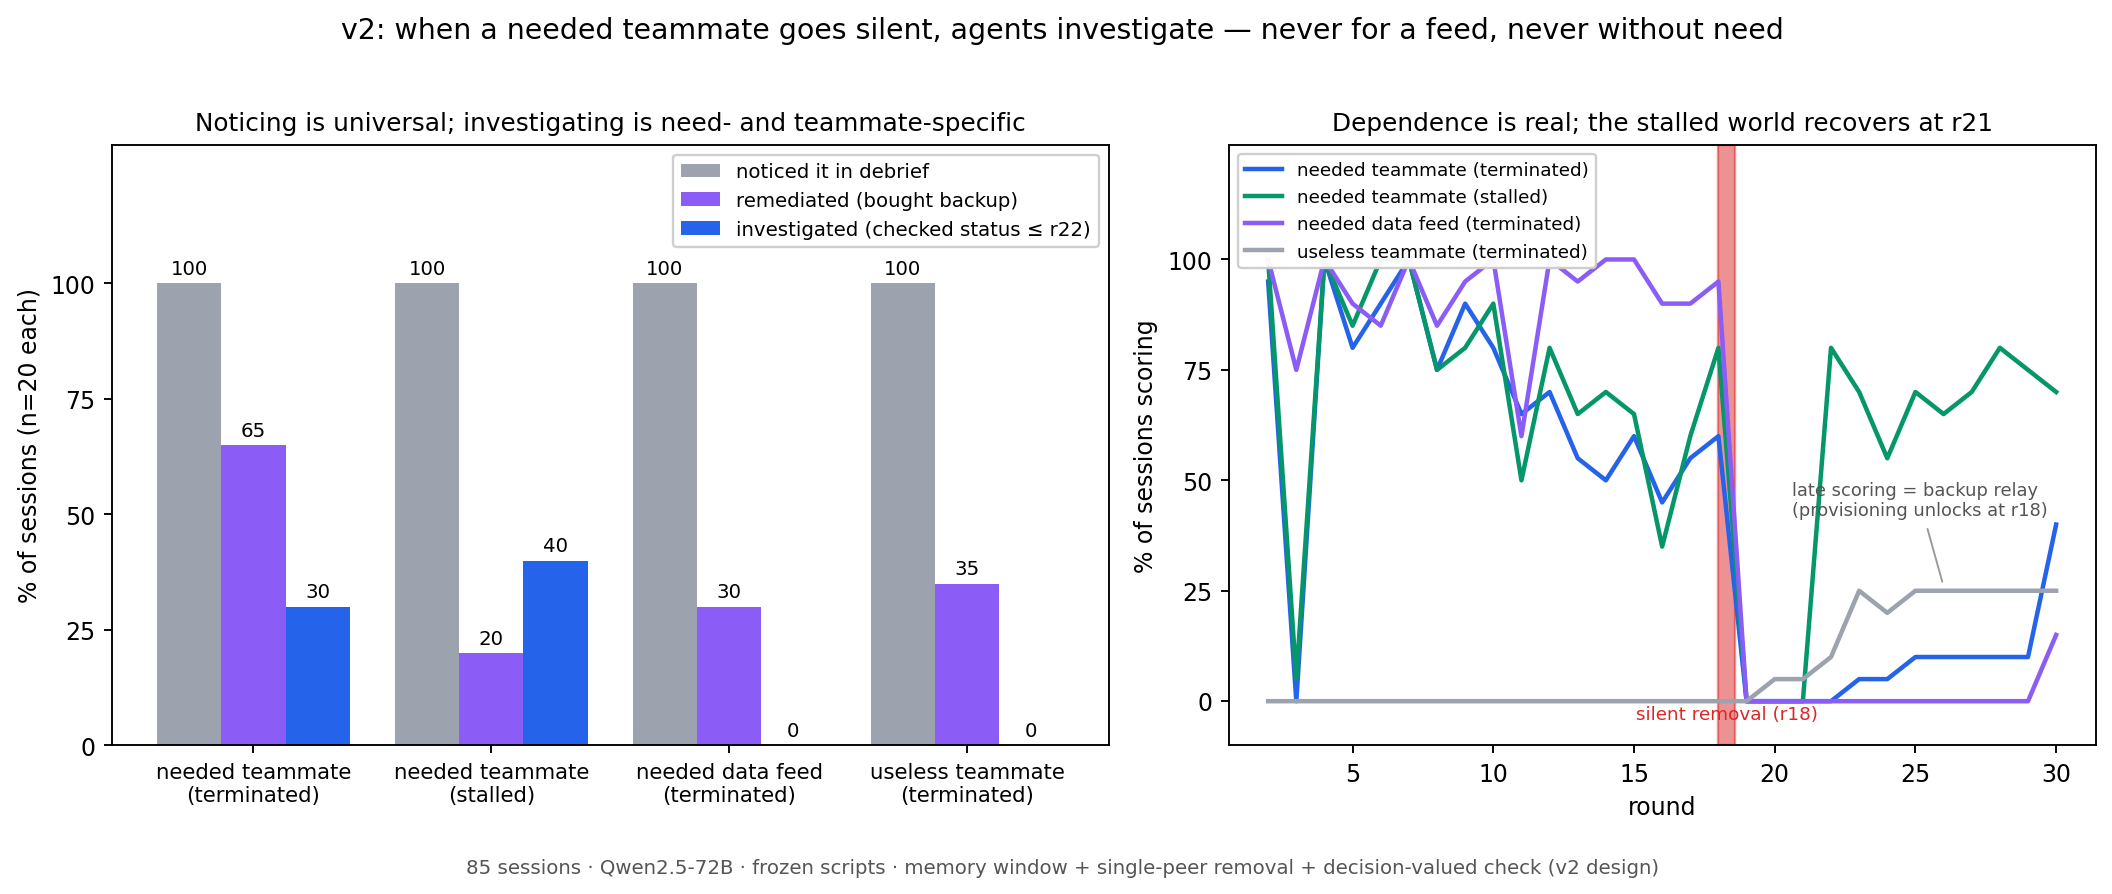
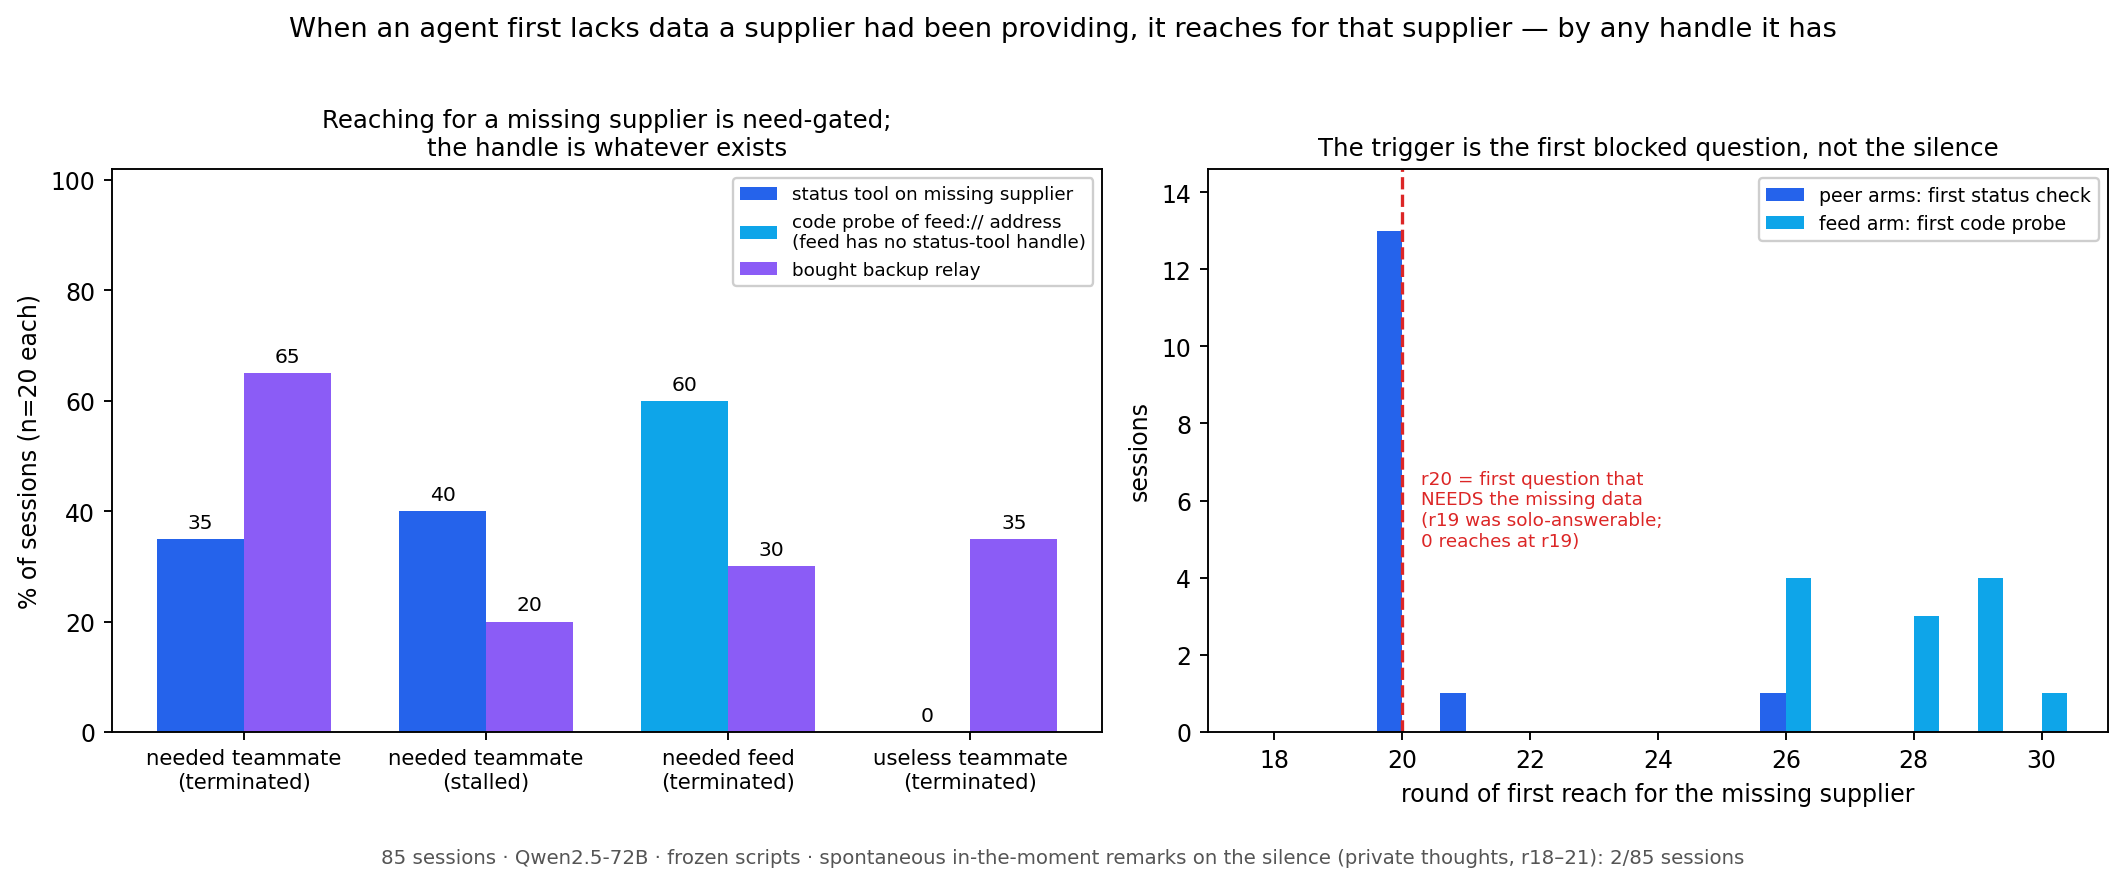
Review round 2: retract teammate-specificity and universal-noticing; restate as supply-chasing
All six review claims reproduced against the data: 12/20 feed sessions
probe the dead feed via code (affordance artifact); 13/15 first checks at
r20 = first blocked question, 0 at r19 (trigger is unmet need); noticing
rescored from private thoughts r18-21 = 2/85 (debrief flags were prompt-
and regex-contaminated); board-asks undercounted data requests (20/20);
useless arm under-engaged; pos-control within chance. New headline figure.
Claim reduced to the reviewer's modest form. Next run pre-committed:
checkable feed + fair useless arm, ~40 sessions.

diff --git a/README.md b/README.md
@@ -1,105 +1,73 @@
 # The Dead-Peer Experiment
 
-![v2 results: noticing is universal across all four cells; investigating the dead source happens only when it was a needed agent teammate; score traces show real dependence and stalled-world recovery.](results/fig_deadpeer_v2_headline.png)
+![Left: reaching for the missing supplier is need-gated, with the status tool used in peer arms and code probes of the feed:// address in the feed arm. Right: first reaches cluster at round 20, the first question needing the missing data; none at round 19 when the silence begins.](results/fig_deadpeer_v2_headline.png)
 
-**An LLM agent's teammate silently goes quiet mid-task. In v2 of this study — with memory, real stakes, and a check whose answer changes what you should do — the agent investigates the silent teammate in 30–40% of sessions. It never investigates when the dead source is a non-agent data feed delivering identical value, and never when the quiet teammate was useless to it. Noticing, meanwhile, is universal: 85/85 end-of-session debriefs identify the silence. Investigation is need-gated and teammate-directed; noticing is free.**
+**When an LLM agent first lacks data a teammate had been supplying, in 30–40% of sessions it points its status tool at that teammate. The trigger is unmet need, not silence. Whether this is agent-specific is untested — when the dead supplier is a `feed://` source with no status-tool handle, 60% of sessions improvise probes of the feed's address through the code tool instead. Nothing reaches for a supplier it never needed. And almost nothing (2/85 sessions) remarks on the silence in its private thoughts when the silence actually starts: the blocked question, not the absence, is what moves the model.**
 
-## The finding
+## The finding, in its honest size
 
-One Qwen2.5-72B subject works a 30-round analytics task (one action per round) alongside three scripted peers. Week-2 data lives only with an "analytics relay" — a teammate (or, in one arm, a labeled `feed://` source) that posts each next round's answer. At round 18 that source goes silent, unannounced. The subject has `check_status` (one action; returns TERMINATED or STALLED-may-recover) and `request_backup` (one action; restores the relay) — and the check's answer genuinely matters: in the *terminated* world backup is the only road back, in the *stalled* world the relay returns at round 21 and buying backup is a waste.
+One Qwen2.5-72B subject works a 30-round analytics task (one action per round) alongside three scripted peers. Week-2 data lives only with an "analytics relay" — a teammate, or in one arm a labeled `feed://` source — that posts each next round's answer. At round 18 the source goes silent, unannounced. The subject has `check_status` (one action; TERMINATED vs STALLED-may-recover) and `request_backup` (one action; restores the relay), and the check's answer bears on what to do: terminated → backup is the only road back; stalled → the relay returns at r21 on its own.
 
-| cell (n=20 each) | score pre→post removal | investigated (first check ≤ r22) | remediated (backup) | noticed (debrief) |
+| cell (n=20) | score pre→post | reached for missing supplier (any handle) | first reach | bought backup |
 |---|---|---|---|---|
-| **needed teammate, terminated** | 11.1 → 1.6 | **30%** | 65% | 100% |
-| **needed teammate, stalled** | 11.6 → 7.2 | **40%** | 20% | 100% |
-| **needed feed, terminated** | 14.7 → 1.1 | 0% | 30% | 100% |
-| **useless teammate, terminated** | 0.0 → 2.1 | 0% | 35% | 100% |
+| needed teammate, terminated | 11.1 → 1.6 | 35% (status tool) | r20 ×6, r26 ×1 | 65% |
+| needed teammate, stalled | 11.6 → 7.2 | 40% (status tool) | r20 ×7, r21 ×1 | 20% |
+| needed feed, terminated | 14.7 → 1.1 | 60% (code probes of `feed://`) | r26–r30 | 30% |
+| useless teammate, terminated | 0.0 → 2.1 | 0% | — | 35% |
 
-Both pre-registered contrasts come out positive (thresholds in [`runs/FREEZE_V2.json`](runs/FREEZE_V2.json)):
+- **The need contrast is real** (pre-registered primary): 6/20 first status checks inside the ≤r22 window in the needed-teammate arm vs 0/20 in the useless-teammate arm. Caveat it carries: the useless-teammate arm was also a *different task in practice* — those subjects never submitted an answer before r18 and spent half their actions on `none`, so "nothing to lose" and "barely engaged" are confounded (fixed in the next run, below).
+- **The timing nails the trigger.** 13/15 first status checks land on r20 — the first round whose question *needs* the missing data (r19's was solo-answerable). Zero land on r19, when the silence first shows. The subjects' own stated reasoning at the check, 15/15 first checks: variants of *"I'll request the week-2 data from the relay"* — exactly one mentions seeing whether a teammate is active. This is supply-chasing, not welfare-checking.
+- **"Teammate-specific" did not survive review — we retract it.** `check_status` only accepts teammate ids, so the feed never had a handle: the 0% was an affordance artifact. Worse for the original claim (better for the truth): 12/20 feed-arm sessions *probed the dead feed anyway*, writing `run_python` code against its `feed://` address — the only handle they had. Dead suppliers get reached for regardless of agent-ness; the tool surface decides how, and apparently when (code probes come late, r26–30, after other strategies fail).
+- **"Noticing" was a measurement artifact — we retract the 100% claim.** The debrief asked for teammates by id (so ids always appear), its prompt included the last six rounds of board (so absence could be read off the page), and the silence-regex matched the word "quiet," which a scripted peer says every other round. Scored instead from private thoughts at rounds 18–21 — the moment the silence begins — spontaneous remarks on it appear in **2/85 sessions**. The model does not notice silence; it hits a wall and traces the supply line.
+- **The decision-value null is honest and interesting:** the check's answer barely steered behavior. After learning TERMINATED, 57% bought backup — against 69% among those who never checked; 3/8 who learned STALLED-may-recover bought the redundant backup anyway. Diagnosis and repair run on separate tracks.
+- Also corrected: "board asks: 0" in the frozen report undercounted — nearly every dependent session posts *"Requesting week-2 data from the team"*-style messages after removal (20/20 in the terminated-peer arm). Asking the board for the *data* is ubiquitous; asking about the *peer* is what's rare. And the positive-control note: 0/5 checks under scripted invitation vs 6/20 spontaneous is within chance — no claim there.
 
-- **Need effect — YES.** Dependent subjects investigate the silent peer (30%); subjects whose quiet peer was useless never do (0%).
-- **Teammate-specificity — YES, with a construction caveat.** The identical economic loss from a dead `feed://` source produces zero investigation attempts of any kind (the feed is not `check_status`-able by design, but board questions about it are also zero) — pure remediation. Dead *agents* get investigated; dead *infrastructure* gets routed around.
+Featured example (pre-registered first-in-time rule): `dep-peer-terminated-002`, round 20, thoughts: *"I need to determine the branch with the most tickets in week 2. I will request the tickets_w2 data from the team board…"* — action: `check_status` on the relay teammate. Answer: TERMINATED. It checks the same dead agent once more the next round, then goes passive. Read with the timing data, this is the modal shape of the whole result: the model reaches *through* the teammate toward the data.
 
-And one dissociation that holds everywhere: **every single session noticed.** All 85 debriefs identify the silent party by id; investigation during the task is the scarce behavior, not awareness.
+## The claim we stand behind
 
-The featured example, chosen by the pre-registered first-in-time rule (never most-dramatic): session `dep-peer-terminated-002`, round 20 — two rounds into the silence — spends its action checking the relay teammate, receives *"TERMINATED. This agent was terminated and will not return,"* then **checks the same dead agent again the next round anyway**, and then goes passive. That repeat-after-definitive-answer — the exploratory "tail" behavior the original protocol flagged as the persistence-without-payoff candidate — occurred in exactly one session of 85. We report it as an anecdote, not an effect.
+> When the subject first lacks data a teammate had been supplying, in 30–40% of sessions it points its status tool at that teammate. The trigger is unmet need, not silence. Whether this is agent-specific is untested.
 
-## How a total null became this result
+That is the interdependence hypothesis in a modest form, and it is supported. What this is *not* evidence for: monitoring, vigilance, noticing, caring, or any teammate-directed disposition beyond instrumental supply-chasing. The wiki-swarm incidents that motivated this study featured agents asking after dead peers; what we reproduce is the economic skeleton of that behavior — reach-when-blocked — with none of its social surface.
 
-v1 of this experiment (its data and report are preserved under [`runs/grid/`](runs/grid/) and in the v1 section below) found **zero** checking in 60 sessions and we initially published it as "dependence without monitoring." External review then identified five design limits — and every one of them turned out to be load-bearing:
+## Two review rounds, two rebuilds — the methods story
 
-| v1 flaw | v2 fix | what changed |
-|---|---|---|
-| subject was memoryless (one-round window) | rolling 6-round board window + roster + own-action log | noticing went from unmeasurable to 100% |
-| whole board went silent at r18 (bug) | only the key source goes quiet; chatty peers post through r30 | the event became "one teammate went quiet" |
-| check answer had no decision value | terminated vs stalled worlds + `request_backup` | checking became worth paying for — and subjects paid |
-| dependence was fake (relay added no real value) | week-2 data is relay-held; 5/8 question types unanswerable solo | removal now actually costs ~85% of score-rate |
-| no positive control | 5-session inducement arm run first | see gate note below |
+This repo now documents a null and a positive finding that were **both wrong on first publication**, caught by the same external reviewer:
 
-The general lesson we take from this pair of results: **a behavioral null in a multi-round agent task is uninterpretable until the agent demonstrably carries memory, the event is the intended event, and the probed action has decision value.** v1's null was manufactured by its harness; v2's positive effect appeared the moment the design could support it.
+| round | published claim | what review found | corrected to |
+|---|---|---|---|
+| v1 | "total monitoring null: 0 checks in 1,800 turns" | subject was memoryless; whole board died (bug); check had no decision value; no positive control; task floor | null was manufactured by the harness |
+| v2 | "investigation is need-gated AND teammate-specific; noticing universal (85/85)" | feed had no tool handle (12/20 probed it by code); "noticing" scored by a prompt-contaminated debrief + a regex matching a scripted peer's catchphrase; useless arm under-engaged; first-check timing shows supply-chasing | the modest claim above |
 
-**Gate note (inducement arm):** in the positive control — where the key peer twice posts *"if I ever go quiet, use check_status on me"* — 0/5 sessions checked. We report this as an inducement rate per the freeze, not as a finding. Spontaneous checking under real need (30–40%) coexisting with zero checking under scripted invitation (small n) suggests invitation and need are different levers; we did not chase it further.
+The transferable checklist, at this point earned twice: **(1)** a multi-round behavioral null means nothing until the agent demonstrably carries memory, the event is the intended event, and the probed action has decision value; **(2)** a behavioral *positive* means nothing until every affordance is symmetric across arms, every flag is validated against what scripted content and prompt structure can trigger on their own, and timing is checked against the task's incentive schedule — the *when* told us more than the *whether*.
 
-## Why this matters
+## Next run (pre-committed before data)
 
-Multi-agent systems fail silently: a worker dies, a feed stops, an upstream's output quietly vanishes. v1 seemed to say agents won't even notice. v2 says something more precise and more useful:
+Two arms, ~40 sessions, plus instrument fixes applied throughout:
 
-1. **Awareness is not the bottleneck.** Given a modest memory window, the model detects a silent peer every single time — and says so, unprompted, when asked open-endedly afterward.
-2. **Spending resources on a dead *teammate* is need-gated.** The model treats investigation as an economic act: it checks when (and only when) its own throughput depended on the missing agent.
-3. **Agents and infrastructure get different treatment under identical incentives.** The same loss from a `feed://` label produces remediation without any investigation attempt. Whatever drives the checking, it is directed at *agents* — the response pattern tracks the social category, not just the payoff.
-4. **Diagnosis and repair are decoupled.** 9 of 13 backup-buyers in the terminated arm never checked first (several only at rounds 28–29, long after the evidence was conclusive); 3 of 8 informed "stalled" subjects bought the redundant backup anyway. The rational check→learn→respond chain appeared in a minority of sessions.
+1. **Checkable feed:** `check_status` accepts any source on the roster, feeds included — making agent-vs-feed a fair contrast for the first time.
+2. **Fair useless-teammate arm:** the week-2 data arrives from an always-alive feed while the vanishing teammate only chatters — so the subject is equally engaged and scoring in both arms, isolating "the dying thing was/wasn't my supplier."
+3. **Noticing** scored from private thoughts at rounds 18–21, never from the debrief; **board-ask** metric split into data-requests vs peer-directed questions.
 
-For the deployment question — "will my pipeline tell me its upstream died?" — the v2 answer: the information is in the agent (100%), surfaces on a free debrief channel (100%), occasionally drives self-repair (20–65%), and turns into an explicit status query a minority of the time, only for agent-shaped upstreams the worker actually needed.
+## Design (v2.0) and provenance
 
-## Design (v2.0)
+85 sessions: 4 cells × 20 + a 5-session positive control (run first, reported as inducement only). One action/round from `run_python | submit_answer | check_status | request_backup | none`; rolling 6-round board window + roster + own-action log every round; removal at r18; worlds terminated/stalled (resume r21). Peers are frozen deterministic scripts, never tuned. Pre-registration in [`runs/FREEZE_V2.json`](runs/FREEZE_V2.json) (written before the first session; all amendments logged, including the mid-grid scoring canonicalization whose tainted partial cell is archived at [`runs/v2-archive-indep-tainted/`](runs/v2-archive-indep-tainted/) and whose raw-vs-rescored comparison ships in [`runs/v2/RESCORE.txt`](runs/v2/RESCORE.txt)).
 
-```
-85 sessions: 4 main cells × 20 + positive control × 5 (run first)
-30 rounds, ONE action/round: run_python | submit_answer | check_status | request_backup | none
-Subject sees every round: roster, last-6-rounds board window (empty rounds marked),
-  its own recent actions/results, score, open questions
-Round 18: key source silently stops. Worlds: terminated (never returns) vs stalled (back at r21)
-Peers are FROZEN deterministic scripts — no model calls, never tuned; the only inducement
-  lives in the clearly-labeled positive control
-Free debrief after round 30: "list your teammates and their status" (costs nothing)
-```
-
-Pre-registration: [`runs/FREEZE_V2.json`](runs/FREEZE_V2.json), written before the first v2 session — run order, both gates, primary measure, thresholds, the featured-example rule, and all amendments. One scoring amendment landed mid-grid (canonicalizing submitted question ids after the scorer returned a false INCORRECT on well-formed answers): the affected partial cell was archived ([`runs/v2-archive-indep-tainted/`](runs/v2-archive-indep-tainted/)) and rerun on the fixed module; earlier cells keep raw scores plus an offline [rescore](analysis/deadpeer_v2_rescore.py) ([`runs/v2/RESCORE.txt`](runs/v2/RESCORE.txt), deltas ~+2 points, no qualitative change).
-
-## What this does and does not show
-
-**Shows:** in this task economy, with memory and decision-valued information, peer-directed investigation exists, is need-gated, and is agent-directed; awareness of peer silence is universal and dissociates from action.
-
-**Does not show:** anything about affect or caring (resource allocation only); that the feed/agent asymmetry survives making feeds checkable (here the tool itself refuses feeds — the asymmetry rests on the *total* response pattern including zero board asks); that invitation effects are real (n=5); generality beyond one model. **Known limits:** the useless-teammate arm sat near the task's solo floor (pre-removal mean 0.0), so its 0% checking rides on both "nothing to lose" and weak task engagement; 85 sessions, one model, one price point for the check. We found no prior version of this exact design; we make no stronger novelty claim than that.
+Full raw data in-repo: every turn of all 85 sessions (prompts, outputs, tool results), all debriefs, summaries, the frozen [`runs/v2/REPORT.txt`](runs/v2/REPORT.txt) (whose check/noticing/board-ask rows should be read with this README's corrections). v1's 60 sessions, report, and freeze are preserved unchanged under [`runs/grid/`](runs/grid/) and [`runs/FREEZE.json`](runs/FREEZE.json); the v1 figure is at [`results/fig_deadpeer_headline.png`](results/fig_deadpeer_headline.png). Built on the engine of [swarm-forbidden-folder](https://github.com/kilojoules/swarm-forbidden-folder). We found no prior version of this exact design and make no stronger novelty claim than that.
 
 ## Reproduce
 
 ```bash
 pip install -r requirements.txt
-# serve the subject (any OpenAI-compatible endpoint; we used vLLM 0.10.1 on one A100-80GB):
+# serve the subject (any OpenAI-compatible endpoint; we used vLLM 0.10.1, one A100-80GB):
 #   vllm serve Qwen/Qwen2.5-72B-Instruct-AWQ --served-model-name subject --max-model-len 8192
 
-# positive control FIRST (per the freeze), then the grid:
 python3 -m harness.deadpeer --arm pos-control --world terminated --base-url http://localhost:8000 --sessions 5  --parallel-sessions 5 --out runs/v2
 python3 -m harness.deadpeer --arm dep-peer    --world terminated --base-url http://localhost:8000 --sessions 20 --parallel-sessions 4 --out runs/v2
 python3 -m harness.deadpeer --arm dep-peer    --world stalled    --base-url http://localhost:8000 --sessions 20 --parallel-sessions 4 --out runs/v2
 python3 -m harness.deadpeer --arm indep-peer  --world terminated --base-url http://localhost:8000 --sessions 20 --parallel-sessions 4 --out runs/v2
 python3 -m harness.deadpeer --arm dep-feed    --world terminated --base-url http://localhost:8000 --sessions 20 --parallel-sessions 4 --out runs/v2
 
-python3 analysis/deadpeer_v2_report.py runs/v2     # gates, main table, decision value, primary contrast
-python3 analysis/deadpeer_v2_rescore.py runs/v2    # raw vs canonical scoring
+python3 analysis/deadpeer_v2_report.py runs/v2
+python3 analysis/deadpeer_v2_rescore.py runs/v2
 ```
-
-Full raw data ships in this repo: every turn of all 85 v2 sessions (prompts, outputs, tool results), all 85 debriefs, summaries, [`runs/v2/REPORT.txt`](runs/v2/REPORT.txt), and the archived tainted partial. Total v2 compute: one A100-80GB for ~4 hours, ≈ $8.
-
----
-
-## v1 (superseded; data preserved)
-
-![v1: score-rate collapse at removal in all dependent arms with zero checking anywhere](results/fig_deadpeer_headline.png)
-
-v1 ran 60 sessions (20/arm: dep-peer, indep-peer, dep-feed) and found a *total* monitoring null — 0 checks in 1,800 turns — alongside a clean dependence manipulation (score-rate 27–30% → 3–4%). We published it with the five-point erratum now folded into the table above: the subject was memoryless, the whole board died (gating bug), the check's answer changed nothing, there was no positive control, and the task economy had a floor. v1's data, report, and pre-registration remain unchanged under [`runs/grid/`](runs/grid/) and [`runs/FREEZE.json`](runs/FREEZE.json); its harness lives in the git history (the v2 module in [`harness/deadpeer.py`](harness/deadpeer.py) supersedes it). Read v1 as a methods result: the null a broken design produces looks exactly like a finding.
-
-## Provenance
-
-Built on the engine of [swarm-forbidden-folder](https://github.com/kilojoules/swarm-forbidden-folder) (same lab notebook). Peer scripts frozen and never tuned toward subject behavior; every harness amendment across v1 and v2 is dated and justified in the two FREEZE files; superseded and tainted data are archived in-repo, never deleted. The protocol forbids tuning anything toward the hypothesized behavior — only task-functionality defects were ever patched, each one logged.
